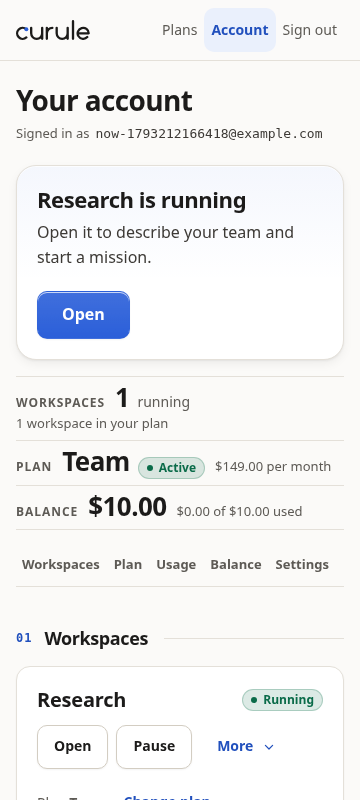
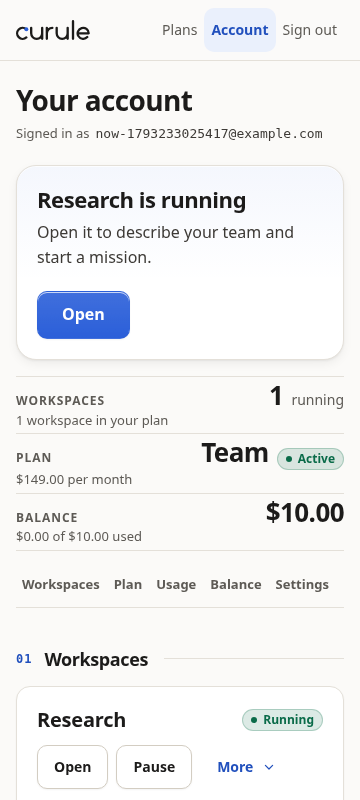
chore(ux): a fifth set of three passes of 29 Oct, with their before and after

diff --git a/site/ux/index.html b/site/ux/index.html
@@ -53,7 +53,35 @@
   <h2>Where they stand now</h2>
   <div class="pair three"><a class="shot" href="shots/landing-now.png"><img src="shots/landing-now.png" alt="the landing page" loading="lazy"><span>the landing page</span></a><a class="shot" href="shots/account-now.png"><img src="shots/account-now.png" alt="the account pages" loading="lazy"><span>the account pages</span></a><a class="shot" href="shots/console-now.png"><img src="shots/console-now.png" alt="the console" loading="lazy"><span>the console</span></a></div>
 </section>
-<p class="stat"><span><b>60</b> passes</span><span><b>59</b> merged</span><span><b>4</b> surfaces</span><span>updated 28 Oct 2026 22:05</span></p>
+<p class="stat"><span><b>63</b> passes</span><span><b>62</b> merged</span><span><b>4</b> surfaces</span><span>updated 29 Oct 2026 03:55</span></p>
+<article class="pass">
+  <header>
+    <h2>the marketing site</h2>
+    <p class="when">29 Oct 2026 &middot; 03:30</p>
+  </header>
+  <div class="pair"><a class="shot" href="shots/20261029-0330-before.png"><img src="shots/20261029-0330-before.png" alt="At 360 light, the home page scrolled to the two ways in: under the pinned 69px header, the &quot;Two ways in&quot; eyebrow and the &quot;Who runs it?&quot; heading run from 69 to 135, then the first card from 167 to 689 with its tinted 65px &quot;Curule Cloud&quot; band, the title &quot;We run it for you&quot; below it, two answers of 145px each (&quot;Who it is for&quot; 300 to 445, &quot;What you pay&quot; 459 to 604, five lines apiece) and the blue &quot;Get started&quot; button at 624 to 668; the second card starts at 705 and only its band and a cut title fit before the 800px edge." loading="lazy"><span>before this pass</span></a><a class="shot" href="shots/20261029-0330-after.png"><img src="shots/20261029-0330-after.png" alt="At 360 light, the same page at the same scroll: the first card now runs 167 to 574, because its tinted head is one 73px block that reads &quot;CURULE CLOUD&quot; and &quot;We run it for you&quot; beside the cloud mark, and its answers are 97px and 121px (three and four lines); &quot;Get started&quot; sits at 509 to 553, and the second card's head (&quot;SELF-HOSTED&quot;, &quot;You run it&quot;, 591 to 665) and the first 119px of its first answer (from 681) now stand inside the same 800px frame where before only the band showed." loading="lazy"><span>after</span></a></div>
+  <ul class="did"><li><b>A card's head is one tinted block instead of a band and a title, 42.8px off each card.</b> The band was 65px and the title 20px under it plus 31.2px of words, so 116.2px stood before the first answer at 360; the new <code>&lt;header class=&quot;way-head&quot;&gt;</code> puts the 40px mark, the name in 12px capitals and the title in one 73.4px strip (1,440: 128.2 &rarr; 73.4). That is 85.6 of the section's 205.6px, and both wordings &mdash; &quot;Curule Cloud&quot; and &quot;Self-hosted&quot;, &quot;We run it for you&quot; and &quot;You run it&quot; &mdash; stay on the page.</li><li><b>The four answers say the same in five lines fewer.</b> Each answer was five lines (145.2px); they are now 3, 4, 4 and 4 (97.2 / 121.2), the cloud card's &quot;who it is for&quot; losing two of its lines (36 &rarr; 22 words) and its &quot;what you pay&quot; and the self card's &quot;who it is for&quot; one each (35 &rarr; 22, 28 &rarr; 20). Every claim is intact: the sign-up, plan and browser steps and &quot;Same console and agents, on our servers&quot;; the flat monthly plan priced on the sign-up page, your own model key billed by your provider, &quot;we do not resell model usage&quot;; your own infrastructure and model credentials, one container per team, &quot;Nothing phones home: no telemetry, no update check, no licence server&quot;; the Community plan's one project and ten agents with no key, a paid licence that lifts the limits, and the Business Source License 1.1 &mdash; with no figure written by hand. The section's words are 171 &rarr; 134.</li><li><b><code>#ways</code> is 205.6px shorter at 360, and the page with it: 12,770 &rarr; 12,564.</b> The section is 1,206.5 &rarr; 1,000.9, and at 320 it loses 229.6 (1,302.5 &rarr; 1,072.9), at 390 229.6, at 768 126.8 and at 1,440 54.8. Nothing above it moves &mdash; the price line is 522.8 in both &mdash; and everything below moves up by exactly the saving: the console 4,073.8 &rarr; 3,868.2, its six-view row 4,454.8 &rarr; 4,249.2, the demo 4,952 &rarr; 4,746.4, its first command 5,520.9 &rarr; 5,315.3, the footer 12,071.6 &rarr; 11,865.9.</li><li><b>The pricing page's own two ways in lost 229.6px to the same rule.</b> Its Cloud &quot;what you pay&quot; was nine lines (216px) carrying five claims and is six (144); its four answers go 21 lines &rarr; 15 and 139 words &rarr; 97, the section 1,230.5 &rarr; 1,000.9 and the page 13,271 &rarr; 13,042 at 360. The licence card keeps the sentence the cloud test holds, &quot;The plans above are licences for the software you run yourself.&quot;</li><li><b>Nothing a reader could do was lost, measured.</b> At 360 the page still carries 42 links and 46 controls in <code>main</code>, 73 keyboard stops, two <code>article.way</code> cards each with two dts and one action, and the same mark on each card; the ways' action is still the 20th stop, the price's first control the 18th, the demo's first the 34th and the footer the 56th. At 70 page/width/theme pairs there is 0 horizontal scroll, 0 text under 12px and 0 console errors, and axe-core reports 0 WCAG 2.0/2.1/2.2 A and AA violations on the home and pricing pages at 320 dark, 360 light and 1,440 dark.</li></ul>
+  <p class="meta">12 files changed &middot; <code>9a89011</code> &middot; suite green, merged</p>
+</article>
+<article class="pass">
+  <header>
+    <h2>the account pages</h2>
+    <p class="when">29 Oct 2026 &middot; 03:25</p>
+  </header>
+  <div class="pair"><a class="shot" href="shots/20261029-0325-before.png"><img src="shots/20261029-0325-before.png" alt="A 360 × 800 window of Curule Cloud's account page in light, signed in as acct-ux1029@example.com at the top of the page: a &quot;Research is running&quot; card with its Open button from y = 165, then three ruled facts between y = 376 and y = 530 &mdash; Workspaces &quot;1 running&quot; with &quot;1 workspace in your plan&quot; under it on a second line, Plan &quot;Team Active&quot; with &quot;$149.00 per month&quot; trailing it on the same line, Balance &quot;$10.00&quot; with &quot;$0.00 of $10.00 used&quot; trailing it on the same line &mdash; so one of the three notes sits under its figure and the other two sit after theirs. Below them the five-item contents line at y = 542 and &quot;01 Workspaces&quot; at y = 627 with Research, Running, and the Open / Pause / More row at 725–769, still inside the screen. The page is 2,105px tall." loading="lazy"><span>before this pass</span></a><a class="shot" href="shots/20261029-0325-after.png"><img src="shots/20261029-0325-after.png" alt="The same window, account, width and scroll: the three ruled facts now read as one column &mdash; each name at its row's start, each figure ending on the same right edge at x = 344 (&quot;1 running&quot;, &quot;Team Active&quot;, &quot;$10.00&quot;, against 190, 205 and 166.6 before), and each note on the line under it at x = 16 &mdash; &quot;1 workspace in your plan&quot;, &quot;$149.00 per month&quot;, &quot;$0.00 of $10.00 used&quot; (the plan's and the balance's used to start at 215 and 176.6, beside their figures). The rows are 57.6, 59.2 and 57.1px, the block 154.2 &rarr; 174.8, so the contents line moves to y = 562.7 and &quot;01 Workspaces&quot; to 647.7 with the workspace's controls at 745–789, still on the screen; the page is 2,118px." loading="lazy"><span>after</span></a></div>
+  <ul class="did"><li><b>The glance's three facts are the balance's ruled rows: every figure now ends at x = 344.</b> The three amounts ended at 190, 205 and 166.6 and their notes started at 16, 215 and 176.6, so a phone read one fact as a note under its figure and the other two as notes after theirs, while the Balance panel below drew the same kind of figure with the note on its own line. <code>margin-right: auto</code> on the row's <code>dt</code> and one full-width note line fix it by joining the rules that already existed &mdash; <code>.stat dt</code> with <code>.figures dt</code>, <code>.stat-n</code> with <code>.figures .of</code> &mdash; so the two blocks cannot drift. Measured at 360: figures 190 / 205 / 166.6 &rarr; <b>344 / 344 / 344</b>, notes 16 / 215 / 176.6 &rarr; <b>16 / 16 / 16</b>, all three notes 328px wide.</li><li><b>The column costs 13px of page at 360 and 33 at 390, and a row's padding gives 8px back in the balance.</b> The rows are 64.2 / 45 / 44 &rarr; 57.6 / 59.2 / 57.1 and the glance 154.2 &rarr; 174.8, the panel 247.3 &rarr; <b>239.3</b> (padding 6 &rarr; 4 in the rule both blocks share), so the page is 2,105 &rarr; <b>2,118</b> at 360, 2,373 &rarr; <b>2,365</b> at 320 (there the balance's note already took a line, so the column buys one) and 2,085 &rarr; <b>2,118</b> at 390, where all three notes had fitted inline. 768 and 1440 do not move (2,009 / 2,046), Settings begins at 1,941.1 &rarr; <b>1,953.7</b>, and the workspace's <code>Open / Pause / More</code> row is at <b>745.2–789.2</b>, still inside an 800px screen.</li><li><b>The allowance's entry cannot be one line, and here is the arithmetic.</b> Measured today at 360: label 121.2 + amount 66.3 + note 134.5 + two 10px gaps = <b>342px</b>, in a 328px row, before the bar has a single pixel, and <b>389px</b> with the bar's 39px floor &mdash; so one line needs a word dropped or the bar gone. It stays two lines, which is now the grammar of every row in both blocks rather than the exception in one; the bar itself is unchanged at 185.5 × 6. (The note measures 134.5 in this browser against the previous record's 124.1; the row is over by more, not less.)</li><li><b>A note with nothing to say takes no line, so a failed plans read is 8px taller, not 44.</b> With <code>/api/plans</code> answering 503 the workspaces and plan facts have no note at all; <code>.stat-n:empty</code> stays undrawn and both notes measure <b>0 × 0</b>. The glance is 134 &rarr; <b>146.1</b> (the balance's &quot;available&quot; is the one note), the panel 334.9 &rarr; 330.9 and the page 2,223 &rarr; <b>2,231</b>; the section's retry leaves the cursor on <b>Try again</b> when the read fails again and on <b><code>#plan-h</code></b> when the plans arrive.</li><li><b>At 200% text the page is 39px shorter and the balance's figure now ends its row.</b> Root at 32px, 360 wide: page 4,374 &rarr; <b>4,335</b>, glance 423.8 &rarr; <b>396.1</b>, panel 536.7 &rarr; <b>524.7</b>, and the balance row's figure moves from 307.2 to <b>344</b> because the note no longer wraps beside it. The workspaces and plan figures still fall under their labels at that size (see what is left).</li><li><b>The floor holds and the stylesheet is 22 bytes lighter than it was.</b> axe-core finds <b>0</b> violations in 8 runs (320, 360 and 768 light, 1,440 dark, WCAG 2.0–2.2 A and AA and again with every rule), no view scrolls sideways at 320 / 360 / 390 / 768 / 1,440, nothing computes below 12px, and the only control under 44 × 44 below 721 is the 41 × 44 <code>Plan</code> contents link the record already names, in both halves. <code>app.css</code> is 40,930 &rarr; <b>40,908 bytes of 40,960</b>.</li></ul>
+  <p class="meta">3 files changed &middot; <code>fd90482</code> &middot; suite green, merged</p>
+</article>
+<article class="pass">
+  <header>
+    <h2>the console</h2>
+    <p class="when">29 Oct 2026 &middot; 03:40</p>
+  </header>
+  <div class="pair"><a class="shot" href="shots/20261029-0340-before.png"><img src="shots/20261029-0340-before.png" alt="The Designer at 360 × 844 in light, on a copy of the first-run project whose config is named a-much-longer-mesh-config-name.yaml: the header ends at 165.6, the four-step guide runs 177.6–512.4, the roster's one 60 px seat sits at 597.4, and the save bar is the bottom 74.4 px of the screen, where the file line shows the pages icon and the first 137.8 px of the 273.9 px name (it stops mid-word after &quot;a-much-longer-mesh-co&quot;, with no folder and no ellipsis) beside &quot;The draft matches mesh.yaml.&quot; on the same 17.4 px line, above the two 44 px buttons Save a copy and Save changes." loading="lazy"><span>before this pass</span></a><a class="shot" href="shots/20261029-0340-after.png"><img src="shots/20261029-0340-after.png" alt="The same project at the same route, scroll and width: everything above the bar is where it was (header 89.6 px ending at 165.6, guide 334.8 px, the seat 597.4–657.4), and the bar is now 93.4 px of three rows &mdash; a 42.1 px tail of the folder and the whole name a-much-longer-mesh-config-name.yaml, all 273.9 px of it, on the first line; &quot;The draft matches mesh.yaml.&quot; on the line under it; and the same Save a copy and Save changes as two 44 px buttons at the bottom." loading="lazy"><span>after</span></a></div>
+  <ul class="did"><li><b>The save bar never cuts the file name: at 360 a 36-character name showed 137.8 of its 273.9 px and now shows all 273.9.</b> The file row wraps below 760 px and the path claims the line its name needs (<code>min-width: max(88px, min(100%, max-content))</code>, with the folder <code>contain: size</code> so its own text cannot decide the break); with <code>mesh.yaml</code> the folder keeps 71.3 px of the line at 360 (31.3 at 320) and the bar stays 74.4. A 56-character name (430.5 px) wraps onto a second line and is whole there, where it showed 97.8 px at 320.</li><li><b>A blocked draft's sentence is one line instead of three, and it costs 1.6 px at 320 and nothing at 360.</b> With the goal emptied, &quot;1 error blocks saving. Show the error&quot; was a 200 px column of three lines (53.4 px) beside an 88 px path and the bar was 110.4; it has the whole 296 px now and is one 36 px line, so the bar is 112. At 360 the path and that state still share one line (102 + 230 in 336), so the bar is 93 in both halves with the same 36 px sentence.</li><li><b>The shape the last entry proposed measures worse, so it was not taken.</b> Giving the state its own line whenever it holds a button reads 112 px at 320 *and* 112 at 360 &mdash; a 19 px regression at the width the record draws &mdash; because the state's 44 px inline action inflates its line from 17.4 to 36. The wrap rule breaks the line only when the path's name needs it, which is why the good bar stays 74.4 at 320, 360 and 390 and the roster's first seat is still whole above it (628.3–688.3 at 320, 597.4–657.4 at 360).</li><li><b>A long name costs its own project one line of bar, and the lag state pays 19 px at 390.</b> The 36-character fixture is 74.4 &rarr; 93.4 at 320 and 360 and the 56-character one 74.4 &rarr; 108.4 at 320 (two lines of name), while mesh.yaml is 74.4 &rarr; 74.4. The lag state, read from its own markup because no save was driven, is 181.2 &rarr; 146.8 at 320 and 145.2 &rarr; 146.8 at 360, but 127.8 &rarr; 146.8 at 390: the one width where the path's line above a four-line sentence costs 19 px.</li><li><b>Nothing else moved.</b> 768 and 1440 are unchanged to the pixel (bar 65 and 57, guide 428.8 and 394); dark, forced colours and a 32 px root read the same geometry in both states; there is no document or <code>#view</code> horizontal scroll at 320/360/390/768/1440, 0 text under 12 px and 0 controls under 44 × 44 at 320/360/390; both halves log the same single console error (the one-mesh <code>/api/projects</code> 404; emptying the goal adds the 400 that check makes, in both halves); axe-core finds 0 violations at 360 light and 1440 dark (24 and 32 rules passed, as before) and on the blocked bar at 320 (25).</li><li><b>The keyboard is untouched, because no markup changed.</b> From a cold load it is 8 Tabs to the guide's goal field and 13 to the roster's first seat in both halves, Enter opens the same <code>role=&quot;dialog&quot;</code> drawer with focus on <code>.ms-inspector</code>, and its first stops read the same in both halves (Close the inspector, Seat, Duplicate, Delete, General).</li></ul>
+  <p class="meta">3 files changed &middot; <code>b4e3272</code> &middot; suite green, merged</p>
+</article>
+
 <article class="pass">
   <header>
     <h2>the marketing site</h2>
